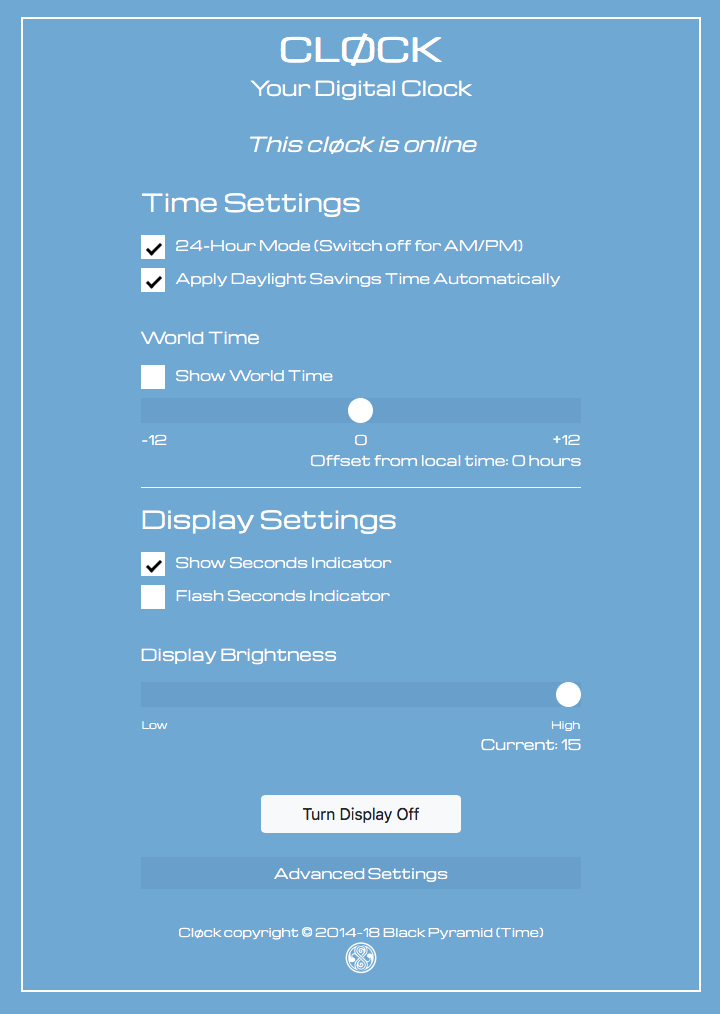
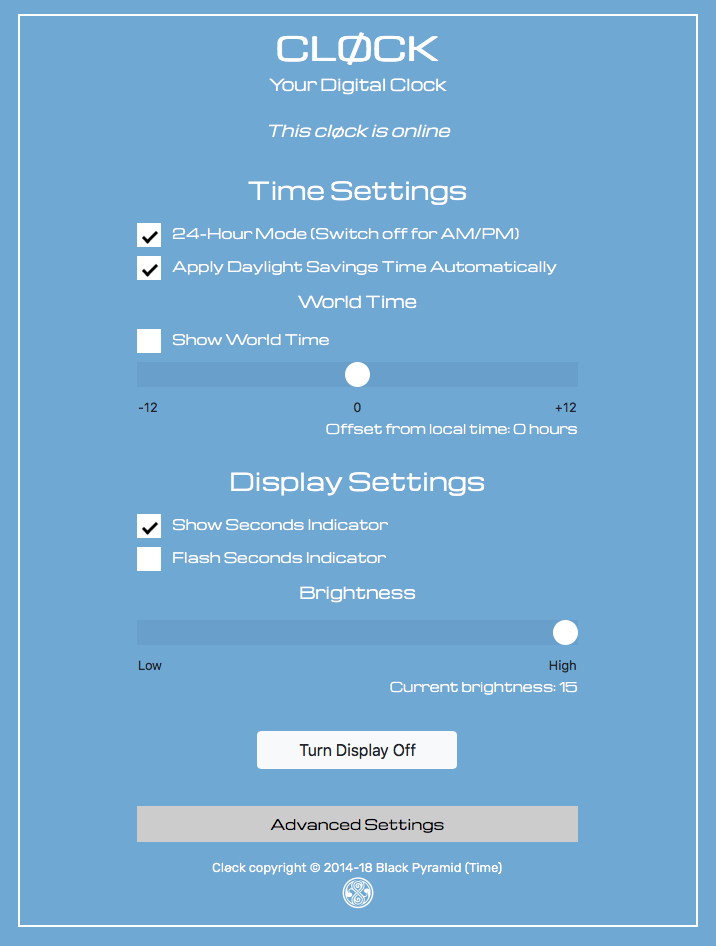
Add new UI image

diff --git a/README.md b/README.md
@@ -41,7 +41,7 @@ Visit your cløck’s agent URL for a control interface.
 
 ## Release Notes ##
 
-- 1.4 *June 8, 2018*
+- 1.4 *June 13, 2018*
     - Update to [Bootstrap 4.1.1](https://getbootstrap.com/)
         - Update Web UI based on Bootstrap
         - Separate out Web UI into own file for clarity
